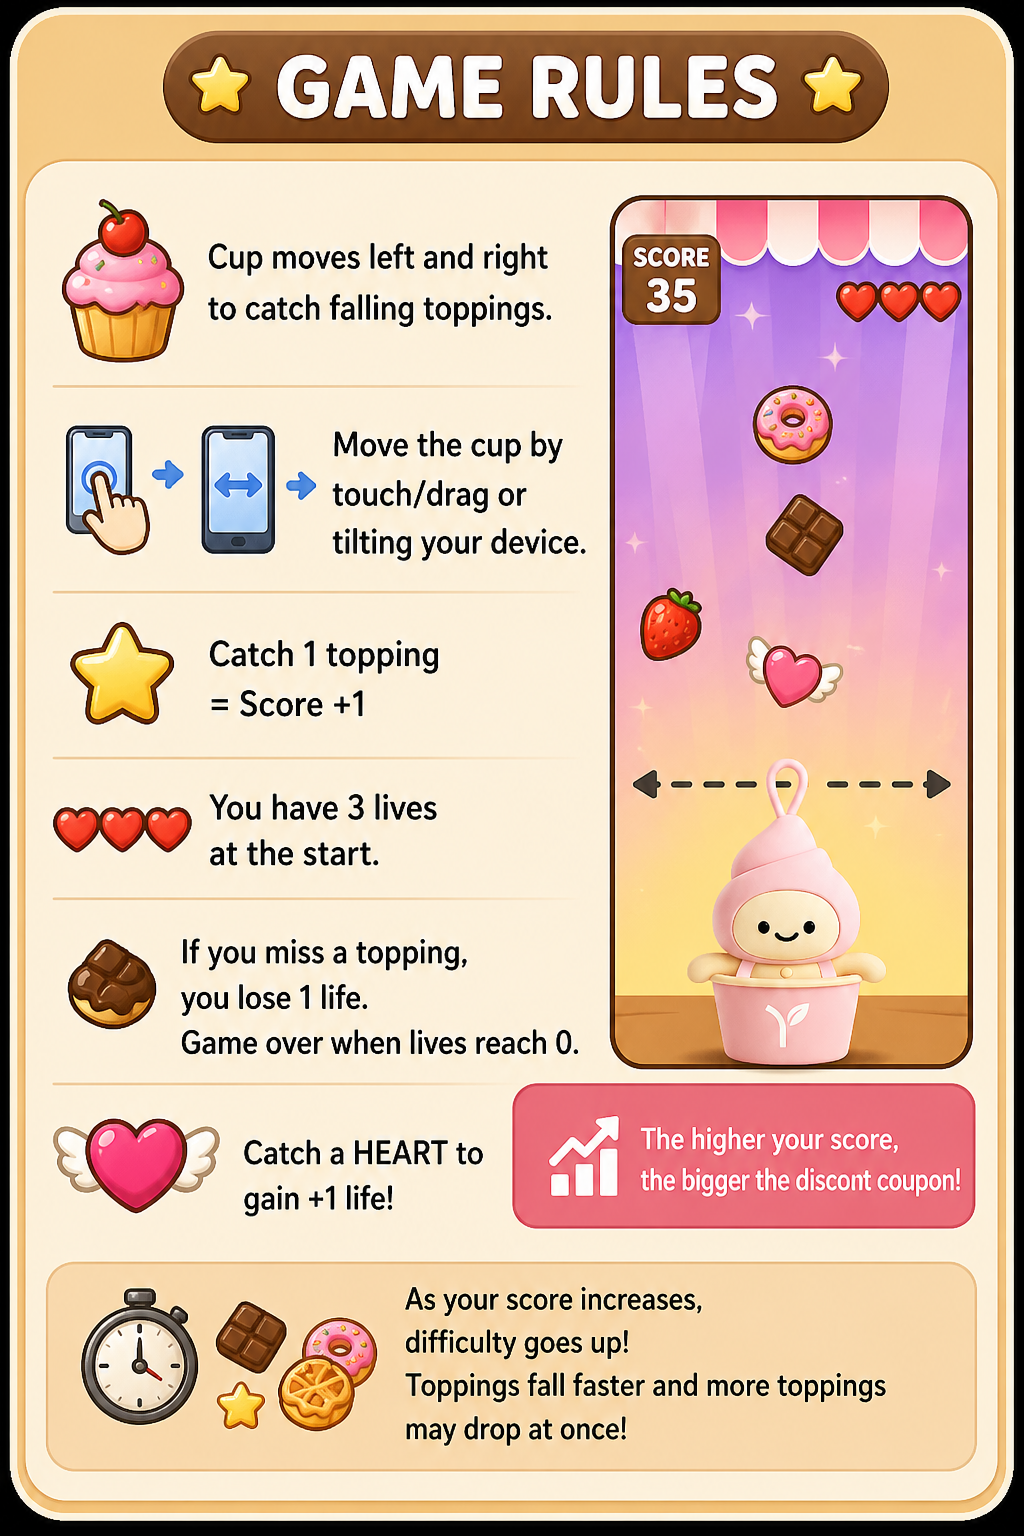
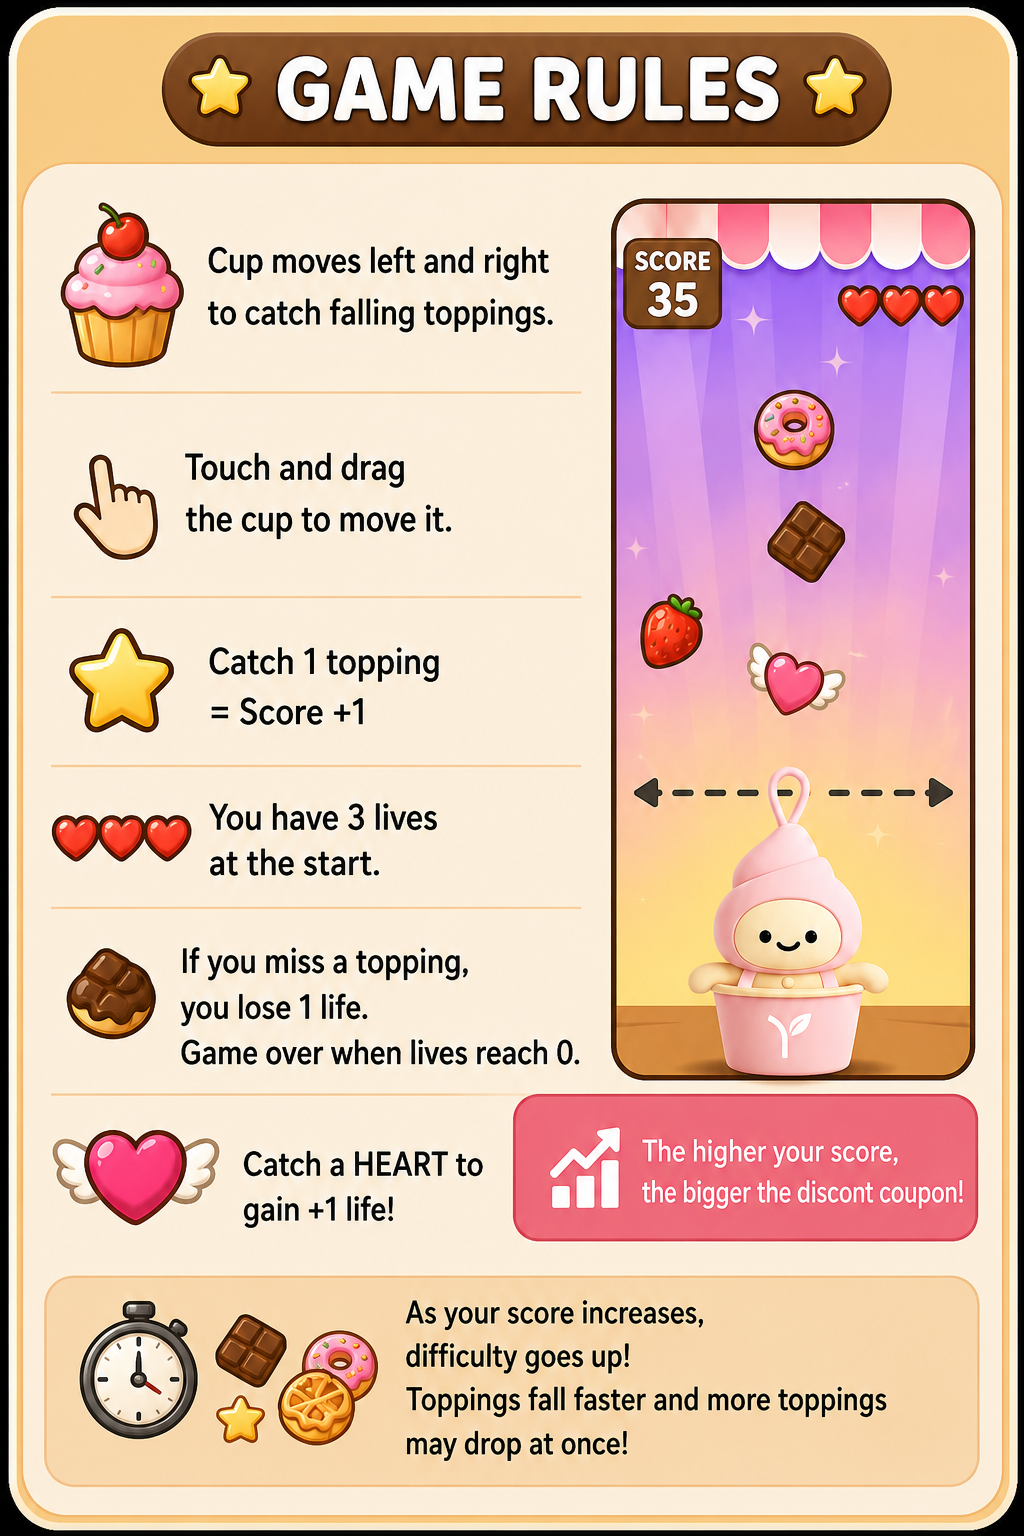
Require coupon rules acknowledgement

Changed region(s): [[0.0, 0.0, 1.0, 1.0], [0.7188, 0.25, 0.8438, 0.375]]

diff --git a/app/components/WalletSecurePageClient.tsx b/app/components/WalletSecurePageClient.tsx
@@ -19,6 +19,17 @@ const LOCAL_WALLET_STORAGE_KEY = "walletCouponsLocal";
 const WALLET_REFRESH_INTERVAL_MS = 10000;
 const QR_LOADING_MS = 2500;
 const QR_ACTIVE_MS = 20000;
+const COUPON_RULES = [
+  "Participation is limited to users with valid accounts; one account per person.",
+  "Coupons have no cash value and cannot be exchanged for cash or credit.",
+  "Coupons are non-transferable, non-resaleable, and may not be shared.",
+  "Lost, expired, or unused coupons will not be replaced or reissued.",
+  "Coupons must be redeemed in-store only and within the 24-hour validity period.",
+  "Coupons are valid on weighted items only.",
+  "Excludes Swirl To-Go, online orders, third-party delivery, catering, and gift cards.",
+  "Coupons are not valid with any other offer, discount, or promotion.",
+  "QR codes are time-sensitive (20 seconds) and cannot be saved, duplicated, or reused.",
+];
 
 type WalletResponse = {
   nickname?: string;
@@ -506,6 +517,13 @@ function CouponPolicyCard() {
             <span className="rounded-lg bg-[#fff0f6] px-2 py-1 text-center font-black text-[var(--yl-primary)]">150+ pts → 15% OFF</span>
             <span className="col-span-2 rounded-lg bg-[#fff0f6] px-2 py-1 text-center font-black text-[var(--yl-primary)]">200+ pts → 20% OFF</span>
           </div>
+
+          <p className="mb-2 mt-4 font-black text-[var(--yl-ink-strong)]">Coupon Rules</p>
+          <ul className="list-inside list-disc space-y-1">
+            {COUPON_RULES.map((rule) => (
+              <li key={rule}>{rule}</li>
+            ))}
+          </ul>
         </div>
       )}
     </section>
@@ -525,7 +543,7 @@ export default function WalletSecurePageClient({ initialTab }: { initialTab?: st
   const [canActivateToday, setCanActivateToday] = useState(true);
   const [nextIssuanceAt, setNextIssuanceAt] = useState<string | null>(null);
   const [showCouponRules, setShowCouponRules] = useState(false);
-  const [dontShowCouponRules, setDontShowCouponRules] = useState(false);
+  const [couponRulesAccepted, setCouponRulesAccepted] = useState(false);
   const [secondsLeft, setSecondsLeft] = useState(QR_ACTIVE_MS / 1000);
   const [qrDataUrl, setQrDataUrl] = useState("");
   const [networkErrorToast, setNetworkErrorToast] = useState(false);
@@ -572,9 +590,7 @@ export default function WalletSecurePageClient({ initialTab }: { initialTab?: st
   }, []);
 
   useEffect(() => {
-    if (localStorage.getItem("hideCouponRules") !== "1") {
-      setShowCouponRules(true);
-    }
+    setShowCouponRules(true);
   }, []);
 
   const isQrVisible = useMemo(() => {
@@ -924,10 +940,12 @@ export default function WalletSecurePageClient({ initialTab }: { initialTab?: st
       {showCouponRules && (
         <div
           className="fixed inset-0 z-50 flex items-center justify-center bg-black/60 p-6 backdrop-blur-sm"
-          onClick={() => setShowCouponRules(false)}
+          role="dialog"
+          aria-modal="true"
+          aria-label="Coupon rules"
         >
           <div
-            className="relative flex w-full max-w-[280px] flex-col items-center"
+            className="relative flex max-h-[calc(100vh-3rem)] w-full max-w-sm flex-col overflow-hidden rounded-[1.5rem] bg-white shadow-2xl"
             onClick={(e) => e.stopPropagation()}
           >
             <img
@@ -939,8 +957,9 @@ export default function WalletSecurePageClient({ initialTab }: { initialTab?: st
 
             <button
               type="button"
+              disabled={!couponRulesAccepted}
               onClick={() => setShowCouponRules(false)}
-              className="absolute -right-3 -top-3 flex h-9 w-9 items-center justify-center rounded-full bg-white font-black text-[var(--yl-primary)] shadow-lg text-lg leading-none"
+              className="absolute -right-3 -top-3 flex h-9 w-9 items-center justify-center rounded-full bg-white font-black text-[var(--yl-primary)] shadow-lg text-lg leading-none disabled:cursor-not-allowed disabled:opacity-45"
               aria-label="Close"
             >
               ✕
@@ -950,27 +969,21 @@ export default function WalletSecurePageClient({ initialTab }: { initialTab?: st
               <label className="mb-3 flex cursor-pointer items-center gap-2.5">
                 <input
                   type="checkbox"
-                  checked={dontShowCouponRules}
-                  onChange={(e) => {
-                    setDontShowCouponRules(e.target.checked);
-                    if (e.target.checked) {
-                      localStorage.setItem("hideCouponRules", "1");
-                    } else {
-                      localStorage.removeItem("hideCouponRules");
-                    }
-                  }}
+                  checked={couponRulesAccepted}
+                  onChange={(e) => setCouponRulesAccepted(e.target.checked)}
                   className="h-4 w-4 cursor-pointer accent-[var(--yl-primary)]"
                 />
                 <span className="text-xs font-semibold text-[var(--yl-ink-muted)]">
-                  Don&apos;t show this again
+                  I have read and understand these coupon rules.
                 </span>
               </label>
               <button
                 type="button"
+                disabled={!couponRulesAccepted}
                 onClick={() => setShowCouponRules(false)}
-                className="w-full rounded-xl bg-[linear-gradient(135deg,var(--yl-primary),var(--yl-primary-soft))] py-3 text-sm font-black uppercase tracking-[0.1em] text-white shadow-[0_8px_20px_rgba(150,9,83,0.35)] transition hover:-translate-y-0.5"
+                className="w-full rounded-xl bg-[linear-gradient(135deg,var(--yl-primary),var(--yl-primary-soft))] py-3 text-sm font-black uppercase tracking-[0.1em] text-white shadow-[0_8px_20px_rgba(150,9,83,0.35)] transition hover:-translate-y-0.5 disabled:cursor-not-allowed disabled:opacity-45 disabled:hover:translate-y-0"
               >
-                Got it!
+                Continue to Wallet
               </button>
             </div>
           </div>